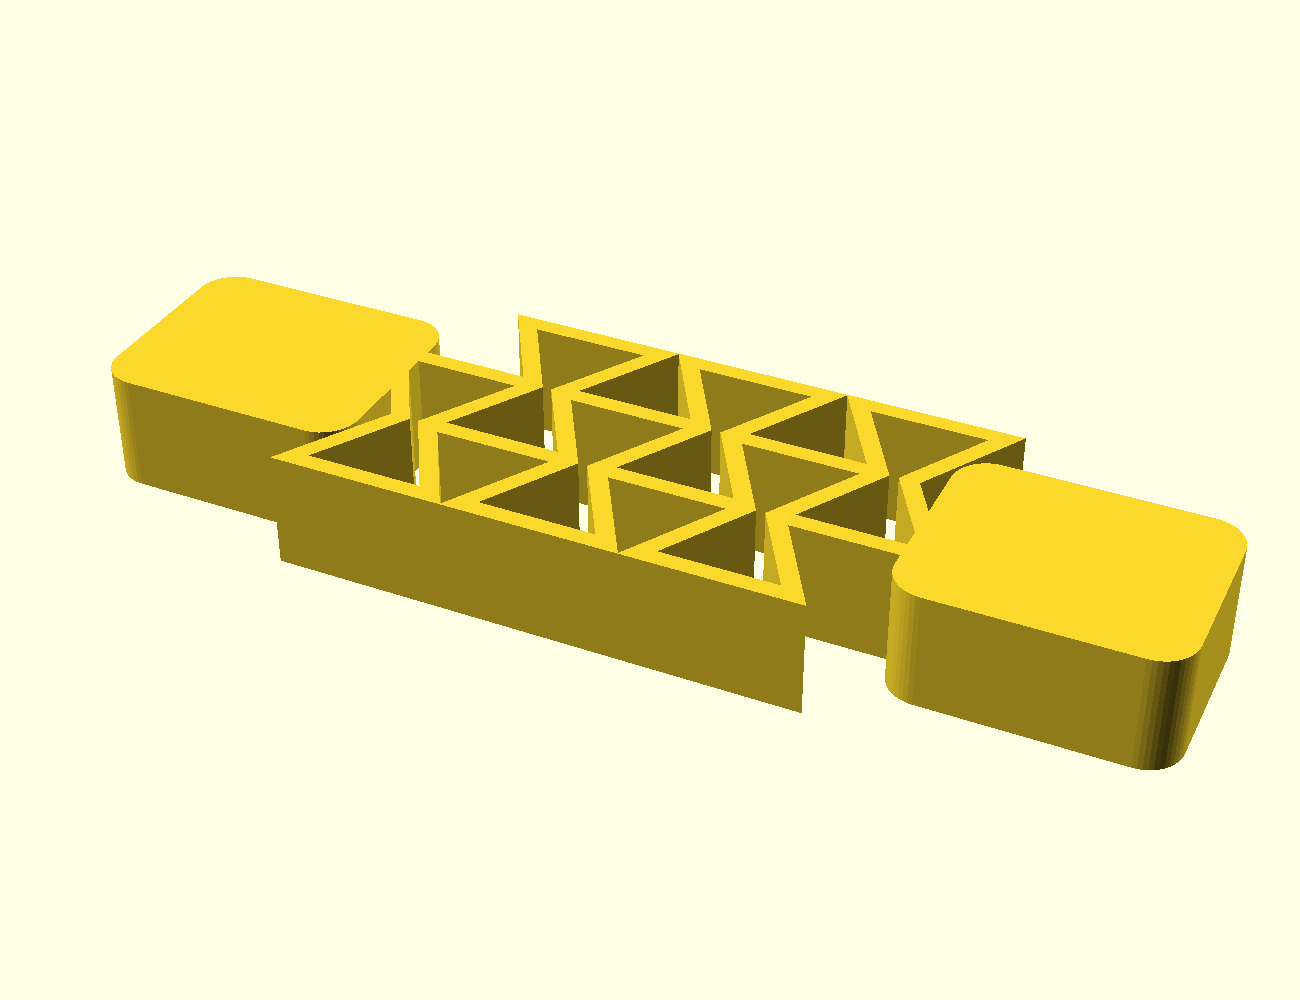
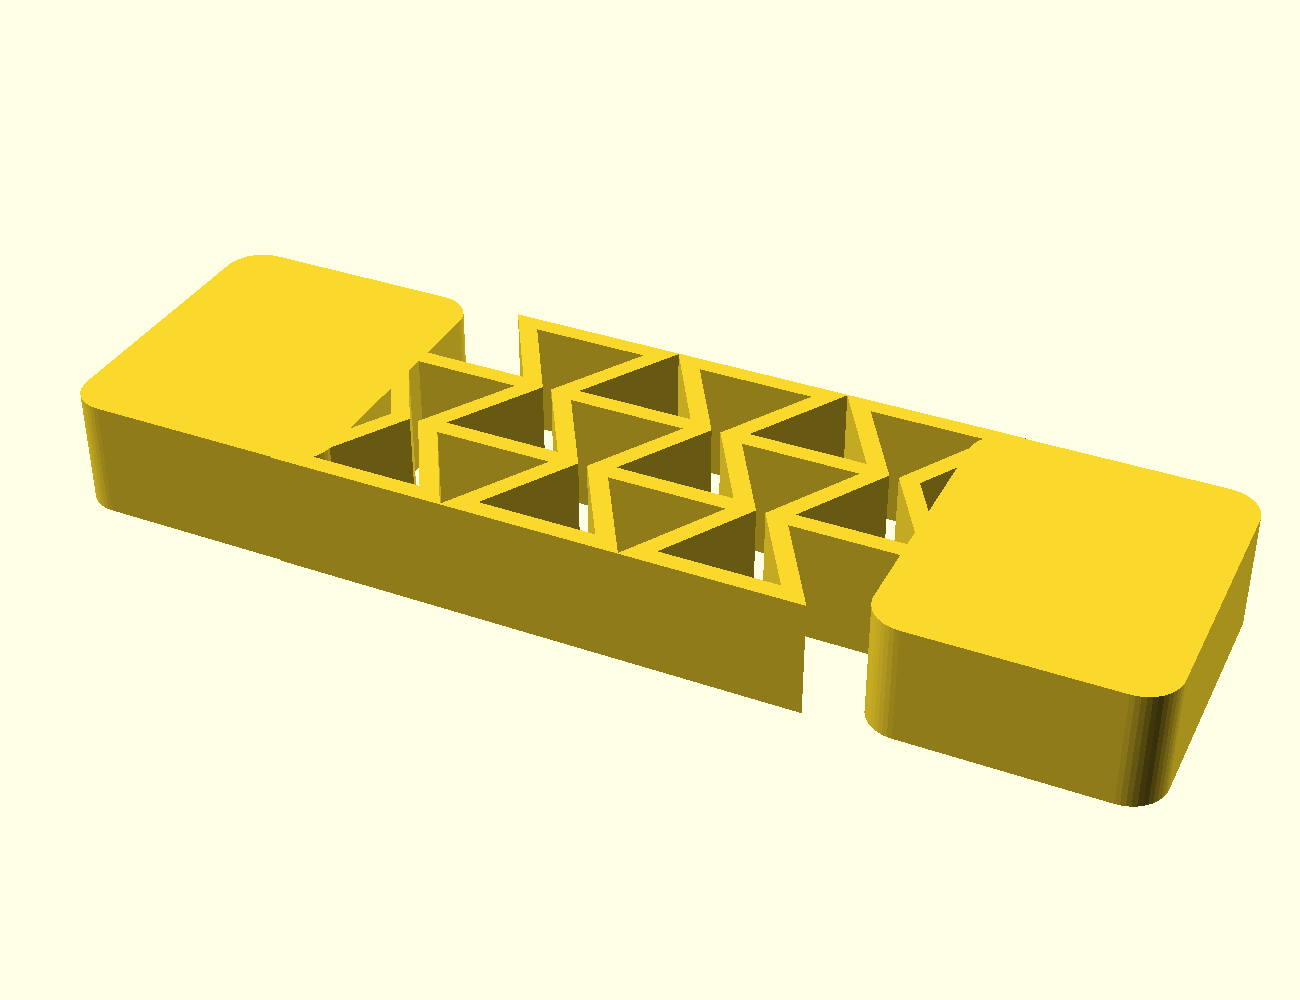
auxetic-tile: deepen coupon tabs to full lattice height
Short pads (0.72·span_y) welded only one corner per end and twisted on
pull (Drik block on b83089a). grip_tab_d_frac=1.05 so both end corners
load through the lattice; still end-only, no tab-to-tab rail.

Agent: Keel

diff --git a/designs/auxetic-tile/NOTES.md b/designs/auxetic-tile/NOTES.md
@@ -103,10 +103,11 @@ All are parametric in `auxetic-tile.scad`.
 
 **Round 1 lattice rework (2026-11-07).** Tessellating half-height brick rows +
 free-sided coupon via `lattice_network_2d` (offset cell-union minus voids —
-no rectangular bypass rails); θ>0 guard; honesty fixes for the neck-cap vs
-45° printability bound. Local `gate.sh --slice`: tile 92/100 (thin-wall WARN
-on emboss text), coupon 100/100; both single-body watertight; readme-gate
-ok. Frozen cameras unchanged (added `render` so CGAL depicts the ribs).
-`shots.conf` product-hero awaits CI `regen` Cycles (no local `bpy`) —
-OpenSCAD iso staged as the README embed meantime, labelled as such.
+no rectangular bypass rails); single 2D-extrude coupon for Manifold
+watertightness; tabs at `grip_tab_d_frac=1.05` so both end corners weld
+(short pads twisted on pull — Drik on `b83089a`); θ>0 guard; honesty fixes
+for the neck-cap vs 45° printability bound. CI printcheck sticky on
+`b83089a`: tile 92/100, coupon 100/100. Frozen cameras unchanged (added
+`render` so CGAL depicts the ribs). `shots.conf` product-hero awaits CI
+Cycles when regen is forced; OpenSCAD iso staged + labelled meantime.
 Design-run from brief #977.
